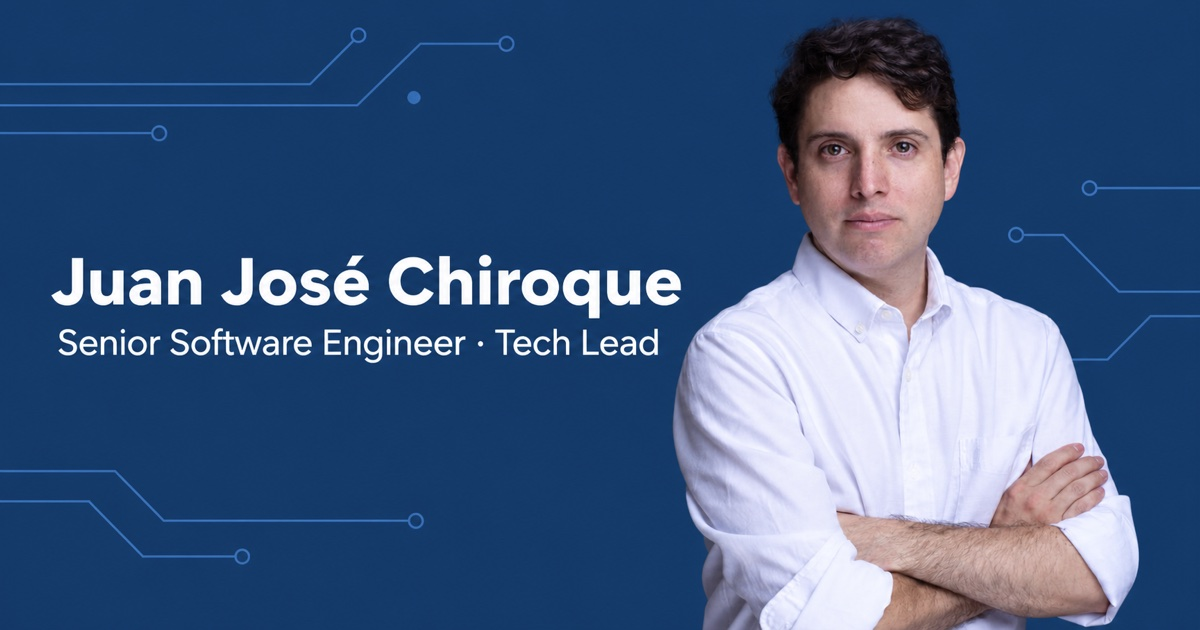
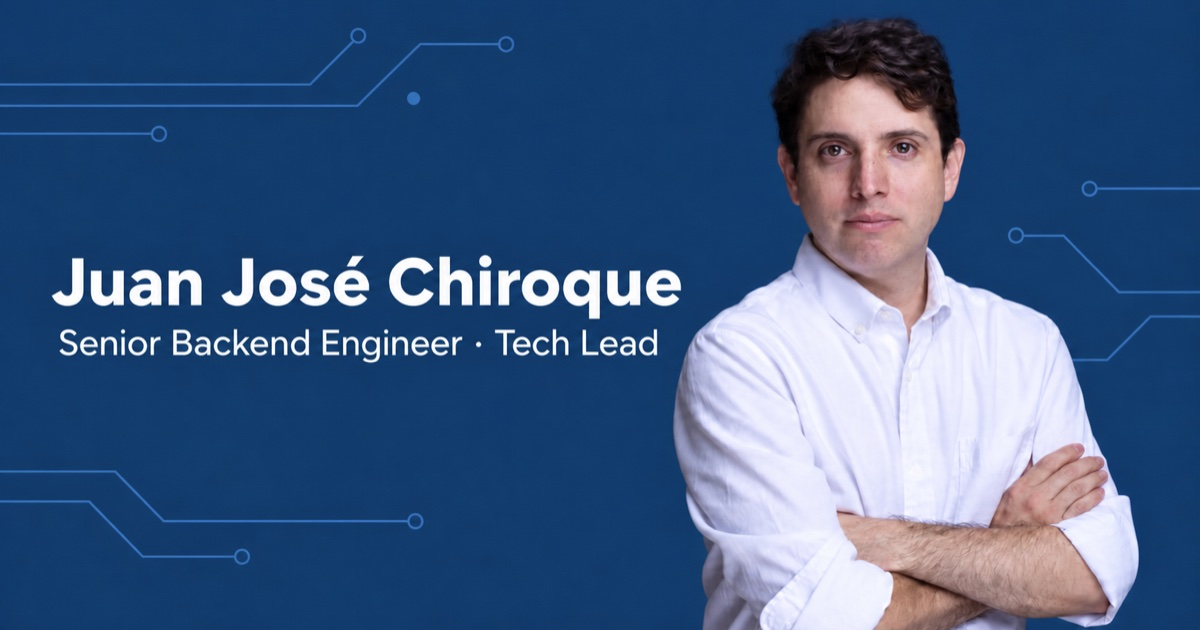
feat: update design, texts and sections

diff --git a/index.html b/index.html
@@ -3,30 +3,27 @@
   <head>
     <meta charset="utf-8">
     <meta name="viewport" content="width=device-width, initial-scale=1">
-    <meta name="description" content="Senior Software Engineer and Tech Lead with 15+ years of experience building SaaS platforms, APIs, cloud systems, integrations and production-ready digital products.">
-    <title>Juan José Chiroque | Senior Software Engineer &amp; Tech Lead</title>
+    <meta name="description" content="Senior Backend Engineer and Tech Lead with 15+ years of experience, open to full-time remote roles across LATAM and US time zones.">
     <link rel="canonical" href="https://juanjosechiroque.com/">
-    <link rel="alternate" hreflang="en" href="https://juanjosechiroque.com/">
-    <link rel="alternate" hreflang="es" href="https://juanjosechiroque.com/es/">
-    <link rel="alternate" hreflang="x-default" href="https://juanjosechiroque.com/">
+    <title>Juan José Chiroque | Senior Backend Engineer &amp; Tech Lead</title>
     <meta property="og:type" content="website">
-    <meta property="og:title" content="Juan José Chiroque | Senior Software Engineer &amp; Tech Lead">
-    <meta property="og:description" content="15+ years building SaaS platforms, APIs, cloud systems and production-ready digital products.">
+    <meta property="og:title" content="Juan José Chiroque | Senior Backend Engineer &amp; Tech Lead">
+    <meta property="og:description" content="Senior Backend Engineer and Tech Lead open to full-time remote roles.">
     <meta property="og:url" content="https://juanjosechiroque.com/">
     <meta property="og:image" content="https://juanjosechiroque.com/assets/images/social-preview.jpg">
     <meta name="twitter:card" content="summary_large_image">
-    <meta name="twitter:title" content="Juan José Chiroque | Senior Software Engineer &amp; Tech Lead">
-    <meta name="twitter:description" content="Senior Software Engineer and Tech Lead building production-ready software.">
+    <meta name="twitter:title" content="Juan José Chiroque | Senior Backend Engineer &amp; Tech Lead">
+    <meta name="twitter:description" content="Senior Backend Engineer and Tech Lead open to full-time remote roles.">
     <meta name="twitter:image" content="https://juanjosechiroque.com/assets/images/social-preview.jpg">
     <link rel="icon" href="/assets/images/favicon.svg" type="image/svg+xml">
     <link rel="stylesheet" href="/assets/css/styles.css">
     <script type="application/ld+json">
-      {"@context":"https://schema.org","@type":"Person","name":"Juan José Chiroque","url":"https://juanjosechiroque.com","jobTitle":"Senior Software Engineer and Tech Lead","image":"https://juanjosechiroque.com/assets/images/juan-jose-chiroque.jpg","sameAs":["https://www.linkedin.com/in/juanjosechiroque/","https://github.com/juanjosechiroque","https://www.workana.com/freelancer/c78f0543276b93e77cf99bf1f4667e28"]}
+      {"@context":"https://schema.org","@type":"Person","name":"Juan José Chiroque","url":"https://juanjosechiroque.com","jobTitle":"Senior Backend Engineer and Tech Lead","image":"https://juanjosechiroque.com/assets/images/juan-jose-chiroque.jpg","sameAs":["https://www.linkedin.com/in/juanjosechiroque/","https://github.com/juanjosechiroque"]}
     </script>
     <script src="/assets/js/config.js" defer></script>
     <script src="/assets/js/site.js" defer></script>
   </head>
-  <body>
+  <body class="recruiter-v2">
     <a class="skip-link" href="#main-content">Skip to content</a>
     <header class="site-header">
       <div class="container nav-wrap">
@@ -35,8 +32,7 @@
           <span class="sr-only">Open navigation</span><span></span><span></span>
         </button>
         <nav id="site-nav" class="site-nav" aria-label="Primary navigation">
-          <a href="#expertise">Expertise</a><a href="#experience">Experience</a><a href="#testimonials">Testimonials</a><a href="#about">About</a><a href="#contact">Contact</a>
-          <span class="language" aria-label="Language"><span aria-current="page">EN</span><span aria-hidden="true">|</span><a href="/es/" lang="es">ES</a></span>
+          <a href="#experience">Experience</a><a href="#expertise">Expertise</a><a href="#about">About</a><a href="#contact">Contact</a>
         </nav>
       </div>
     </header>
@@ -45,51 +41,41 @@
       <section class="hero section">
         <div class="container hero-grid">
           <div class="hero-copy">
-            <p class="eyebrow"><span class="status-dot" aria-hidden="true"></span> Open to remote roles and focused consulting projects</p>
-            <h1>Senior Software Engineer <span>·</span> Tech Lead</h1>
-            <p class="hero-statement">I turn product ideas and complex technical problems into production-ready software.</p>
-            <p class="lead">Building SaaS platforms, APIs, cloud systems and end-to-end digital products.</p>
-            <div class="actions"><a class="button button-primary" href="https://calendly.com/juanjosechiroque/intro-call" data-link="calendly" target="_blank" rel="noopener noreferrer">Book a call <span aria-hidden="true">↗</span><span class="sr-only"> (opens in a new tab)</span></a><a class="button button-secondary" href="#experience">View experience</a></div>
-            <div class="text-links" aria-label="Professional links"><a href="https://www.linkedin.com/in/juanjosechiroque/" target="_blank" rel="noopener noreferrer">LinkedIn <span class="sr-only">(opens in a new tab)</span></a><a href="https://github.com/juanjosechiroque" data-link="github" target="_blank" rel="noopener noreferrer">GitHub <span class="sr-only">(opens in a new tab)</span></a></div>
+            <h1>Senior Backend Engineer <span>·</span> Tech Lead</h1>
+            <p class="hero-statement">Building backend platforms, APIs, cloud systems and end-to-end digital products.</p>
+            <p class="role-target">Open to full-time remote roles with product-focused startups and technology companies.</p>
+            <div class="actions"><a class="button button-primary" href="#experience">View experience</a><a class="button button-secondary" href="https://www.linkedin.com/in/juanjosechiroque/" target="_blank" rel="noopener noreferrer">View LinkedIn profile <span aria-hidden="true">↗</span><span class="sr-only"> (opens in a new tab)</span></a></div>
+            <div class="text-links" aria-label="Professional links"><a href="https://github.com/juanjosechiroque" data-link="github" target="_blank" rel="noopener noreferrer">GitHub <span class="sr-only">(opens in a new tab)</span></a></div>
+            <p class="proof-link">Based in Lima, Peru (UTC−5) · English &amp; Spanish · Professional experience working in English</p>
           </div>
-          <div class="portrait-wrap"><img src="/assets/images/juan-jose-chiroque.jpg" width="800" height="800" alt="Juan José Chiroque, Senior Software Engineer and Tech Lead" fetchpriority="high"></div>
+          <div class="portrait-wrap"><img src="/assets/images/juan-jose-chiroque.jpg" width="800" height="800" alt="Juan José Chiroque, Senior Backend Engineer and Tech Lead" fetchpriority="high"></div>
         </div>
       </section>
 
-      <section class="proof" aria-label="Career credibility"><div class="container proof-grid"><div><strong>15+</strong><span>Years in software engineering</span></div><div><strong>Co-founder &amp; CTO experience</strong><span>SaaS product ownership</span></div><div><strong>LATAM · US</strong><span>International teams</span></div><div><strong>SaaS · Payments · AI</strong><span>Production systems</span></div></div></section>
+      <section class="proof" aria-label="Career credibility"><div class="container proof-grid"><div><strong>15+</strong><span>Years in software engineering</span></div><div><strong>3 SaaS products</strong><span>Taken to paying customers</span></div><div><strong>LATAM · US</strong><span>Distributed teams</span></div><div><strong>Payments · E-commerce · AI/LLM</strong><span>Production systems</span></div></div></section>
 
-      <section id="expertise" class="section"><div class="container"><div class="section-heading"><p class="kicker">How I can help</p><h2>Technical direction that moves a product forward.</h2><p>From early product decisions to production systems, I focus on choosing the right level of technology for the problem, building maintainable software and helping teams move with clarity.</p></div><div class="capabilities">
-        <article><h3>Software Architecture &amp; Engineering</h3><p>Designing maintainable systems, evolving existing platforms and making pragmatic technical decisions for production environments.</p></article>
-        <article><h3>SaaS &amp; Product Development</h3><p>Taking products from idea to production across backend, web and mobile experiences, infrastructure and integrations.</p></article>
-        <article><h3>APIs, Integrations &amp; Payments</h3><p>Building reliable APIs and connecting payment providers, logistics platforms, ERPs and third-party systems.</p></article>
-        <article><h3>AI-enabled Products &amp; Automation</h3><p>Applying AI to real business workflows, conversational products and operational automation where it adds practical value.</p></article>
-        <article><h3>Technical Leadership &amp; Consulting</h3><p>Helping teams reduce delivery risk, clarify technical choices, improve architecture and unblock critical delivery.</p></article>
-      </div></div></section>
-
-      <section id="selected-work" class="section selected-work"><div class="container"><div class="section-heading"><p class="kicker">Selected client work</p><h2>From business workflows to dependable software.</h2><p>Projects across workflow digitization, platform modernization and payments.</p></div><div class="selected-work-grid"><article class="work-card"><p class="work-client"><a href="https://eurotres.com.uy/" target="_blank" rel="noopener noreferrer">Eurotres <span aria-hidden="true">↗</span><span class="sr-only"> (opens in a new tab)</span></a></p><h3>Centralized quotation platform</h3><p>Replaced individual Excel quotation sheets with a centralized full-stack application, consolidating information and improving visibility into created quotes for commercial teams.</p><p class="work-stack">Next.js · MongoDB</p></article><article class="work-card"><p class="work-client"><a href="https://carecolombiaong.org/" target="_blank" rel="noopener noreferrer">CARE Colombia <span aria-hidden="true">↗</span><span class="sr-only"> (opens in a new tab)</span></a></p><h3>Aliadas backend recovery &amp; rebuild</h3><p>Recovered the administrative backend for Aliadas, a mobile app supporting domestic workers in Colombia, reconstructing data from the app’s static content and building a new Supabase backend with PostgreSQL and image storage.</p><p class="work-stack">Angular · MySQL · Supabase · PostgreSQL · Vercel</p></article><article class="work-card"><p class="work-client"><a href="https://dreamvacationrentalhomes.com/" target="_blank" rel="noopener noreferrer">Dream Vacation Rental Homes <span aria-hidden="true">↗</span><span class="sr-only"> (opens in a new tab)</span></a></p><h3>Payment methods extension</h3><p>Added Stripe and Conekta as new payment methods to an existing rental platform through a standalone Node.js service.</p><p class="work-stack">Node.js · Stripe · Conekta</p></article><article class="work-card"><p class="work-client"><a href="https://www.nutrimind.net/" target="_blank" rel="noopener noreferrer">Nutrimind <span aria-hidden="true">↗</span><span class="sr-only"> (opens in a new tab)</span></a></p><h3>Incremental monolith decomposition</h3><p>Moved selected business functions out of a growing jQuery monolith into independently deployed Cloudflare Worker services, so the product could evolve without concentrating more logic in one codebase.</p><p class="work-stack">jQuery · Cloudflare Workers</p></article></div></div></section>
-
-      <section id="testimonials" class="section"><div class="container"><div class="section-heading"><p class="kicker">Selected client feedback</p><h2>Trusted to take ownership of important technical work.</h2></div><div class="testimonials">
-        <article class="testimonial"><p class="testimonial-context">Payments &amp; APIs <span>Stripe &amp; Conekta integration</span></p><blockquote>“Once again, I have no words to describe Juan José other than professional, effective, attentive to every request, and a tremendous source of support. This is the second time I’ve hired him, and I would not hesitate to do so again. Highly recommended.”</blockquote><p class="attribution">Jillian B. <span>· Dream Vacation Rental Homes</span></p></article>
-        <article class="testimonial"><p class="testimonial-context">Aliadas backend recovery <span>Administrative backend rebuild with Supabase</span></p><blockquote>“Excellent management and work. He completed the task better than expected, always seeking the best solution rather than the easiest one. 100% recommended.”</blockquote><p class="attribution">Cristiam <span>· CARE Colombia</span></p></article>
-        <article class="testimonial"><p class="testimonial-context">Business reporting <span>Client reports delivered on time</span></p><blockquote>“Juan José’s willingness and capability were vital to the project’s success. My clients received the report they needed on time.”</blockquote><p class="attribution">Rónald E.</p></article>
-        <article class="testimonial"><p class="testimonial-context">Technical judgment <span>SQL Server issue diagnosis</span></p><blockquote>“His experience lets him see different ways to solve a problem.”</blockquote><p class="attribution">Christian G.</p></article>
-      </div><p class="reviews-note">Public client feedback.</p><a class="quiet-link" href="https://www.workana.com/freelancer/c78f0543276b93e77cf99bf1f4667e28" data-link="workana" target="_blank" rel="noopener noreferrer">View more feedback <span aria-hidden="true">↗</span><span class="sr-only"> (opens in a new tab)</span></a></div></section>
-
-      <section id="experience" class="section"><div class="container two-column"><div class="section-heading"><p class="kicker">Experience</p><h2>Comfortable in the details and accountable for the whole outcome.</h2></div><div><p class="supporting-copy experience-intro">Across startups and enterprises in LATAM and the US.</p><ol class="timeline">
-        <li data-role="Independent consultant" data-company="Independent practice" data-start="2020" data-end="Present"><h3 class="timeline-label">Independent consulting</h3><p class="timeline-date">2020–Present</p><p>Consulting projects across architecture, product delivery, integrations and production systems.</p></li>
-        <li data-role="Co-Founder &amp; CTO" data-company="Butik" data-start="2023" data-end="2026"><h3 class="timeline-label">Co-Founder &amp; CTO · Butik</h3><p class="timeline-date">2023–2026</p><p>Set technical direction and owned architecture end-to-end, taking three SaaS products from concept to production with paying customers.</p></li>
+      <section id="experience" class="section"><div class="container two-column"><div class="section-heading"><h2>Experience</h2></div><div><ol class="timeline">
+        <li data-role="Co-Founder &amp; CTO" data-company="Butik" data-start="2023" data-end="2026"><h3 class="timeline-label">Co-Founder &amp; CTO · Butik</h3><p class="timeline-date">2023–2026</p><p>Defined technical direction and owned end-to-end architecture across the company’s SaaS products, partnering with the CEO to take ideas from concept to production and reach paying customers.</p></li>
         <li data-role="Senior Backend Developer" data-company="Globant" data-start="2021" data-end="2023"><h3 class="timeline-label">Senior Backend Developer · Globant</h3><p class="timeline-date">2021–2023</p><p>Built backend systems for large-scale US enterprise environments, working across commerce and data initiatives with distributed LATAM–US teams.</p></li>
         <li data-role="Lead Backend Developer" data-company="Skynet Worldwide Express" data-start="2014" data-end="2021"><h3 class="timeline-label">Lead Backend Developer · Skynet Worldwide Express</h3><p class="timeline-date">2014–2021</p><p>Led platform modernization, architecture and integrations for international logistics and payment workflows, owning technical delivery from design through production.</p></li>
         <li data-role="Full-Stack Developer" data-company="Alignet" data-start="2006" data-end="2013"><h3 class="timeline-label">Full-Stack Developer · Alignet</h3><p class="timeline-date">2006–2013</p><p>Built payment monitoring and analytics systems for transaction platforms processing thousands of daily transactions.</p></li>
       </ol><a class="quiet-link conditional-link" href="https://www.linkedin.com/in/juanjosechiroque/" target="_blank" rel="noopener noreferrer">View full experience on LinkedIn <span aria-hidden="true">↗</span><span class="sr-only"> (opens in a new tab)</span></a><div class="education-summary"><p class="kicker">Education</p><p><strong>Master of Science in Software Engineering</strong><br>Universidad de los Andes · 2023</p></div></div></div></section>
 
-      <section class="section surface expertise-detail"><div class="container two-column"><div class="section-heading"><p class="kicker">Technical expertise</p><h2>Broad enough to connect the system; deep enough to make it dependable.</h2></div><div class="technology-groups"><div><h3>Backend &amp; systems</h3><p>Node.js · TypeScript · NestJS · Express · REST APIs</p></div><div><h3>Product interfaces</h3><p>React · Next.js · React Native · Expo</p></div><div><h3>Cloud &amp; infrastructure</h3><p>AWS · Vercel · Cloudflare · Docker</p></div><div><h3>Data</h3><p>PostgreSQL · MySQL · MongoDB · SQL</p></div><div><h3>Integrations</h3><p>Stripe · PayPal · Mercado Pago · WhatsApp Business API · Third-party APIs</p></div><div><h3>AI &amp; Automation</h3><p>OpenAI API · RAG · pgvector · Conversational workflows</p></div></div></div></section>
+      <section id="expertise" class="section surface expertise-detail"><div class="container expertise-layout"><div class="section-heading"><h2>Technical expertise</h2></div><div class="technology-groups"><div class="tech-group"><h3>Backend &amp; APIs</h3><p class="tech-tags"><span>Node.js</span><span>TypeScript</span><span>NestJS</span><span>Express</span><span>REST APIs</span></p></div><div class="tech-group"><h3>Cloud &amp; DevOps</h3><p class="tech-tags"><span>AWS: EC2 · ECS · Lambda · API Gateway · S3</span><br><span>Docker</span><span>Vercel</span><span>Cloudflare</span></p></div><div class="tech-group"><h3>Data</h3><p class="tech-tags"><span>PostgreSQL</span><span>MySQL</span><span>MongoDB</span><span>SQL Server</span></p></div><div class="tech-group"><h3>AI &amp; Automation</h3><p class="tech-tags"><span>OpenAI API</span><span>RAG</span><span>pgvector</span><span>Conversational workflows</span></p></div><div class="tech-group"><h3>Integrations</h3><p class="tech-tags"><span>Stripe</span><span>PayPal</span><span>Mercado Pago</span><span>WhatsApp Business API</span><span>Third-party APIs</span></p></div><div class="tech-group"><h3>Product Interfaces</h3><p class="tech-tags"><span>React</span><span>Next.js</span><span>Angular</span><span>React Native</span><span>Expo</span></p></div></div></div></section>
 
-      <section id="about" class="section surface"><div class="container about-grid"><div class="section-heading"><p class="kicker">About</p><h2>Engineering with a product and ownership mindset.</h2></div><div class="prose"><p>For more than 15 years, I’ve built software across startups and enterprise environments. My foundation is in backend engineering and architecture, with the range to take an end-to-end product from a meaningful business problem to a dependable release.</p><p>Having worked as a co-founder and CTO, I look beyond implementation to customer needs, operational constraints and sustainable product decisions. I bring a calm, pragmatic approach that helps distributed teams create software they can operate, evolve and trust.</p></div></div></section>
+      <section id="selected-work" class="section selected-work"><div class="container"><div class="section-heading"><h2>Selected work</h2></div><div class="selected-work-grid"><article class="work-card"><p class="work-client"><a href="https://butik.ai/" target="_blank" rel="noopener noreferrer">Butik <span aria-hidden="true">↗</span><span class="sr-only"> (opens in a new tab)</span></a></p><h3>Co-Founder &amp; CTO</h3><p>Led technical direction and owned architecture for SaaS products spanning e-commerce, AI-assisted content generation, CRM, business automation and conversational workflows with WhatsApp Business API.</p><p class="work-stack">SaaS · E-commerce · AI · CRM · Automation · WhatsApp Business API</p></article><article class="work-card"><p class="work-client"><a href="https://carecolombiaong.org/" target="_blank" rel="noopener noreferrer">CARE Colombia <span aria-hidden="true">↗</span><span class="sr-only"> (opens in a new tab)</span></a></p><h3>Aliadas backend recovery &amp; rebuild</h3><p>Recovered the administrative backend for Aliadas, a mobile app supporting domestic workers in Colombia, reconstructing data from the app’s static content and building a new Supabase backend with PostgreSQL and image storage.</p><p class="work-stack">Angular · MySQL · Supabase · PostgreSQL · Vercel</p></article><article class="work-card"><p class="work-client"><a href="https://eurotres.com.uy/" target="_blank" rel="noopener noreferrer">Eurotres <span aria-hidden="true">↗</span><span class="sr-only"> (opens in a new tab)</span></a></p><h3>Centralized quotation platform</h3><p>Replaced individual Excel quotation sheets with a centralized full-stack application, consolidating information and improving visibility into created quotes for commercial teams.</p><p class="work-stack">Next.js · MongoDB</p></article></div></div></section>
 
-      <section id="contact" class="section contact"><div class="container contact-inner"><p class="kicker">Start a conversation</p><h2>Have a product idea or a complex engineering challenge?</h2><div class="actions"><a class="button button-primary" href="https://calendly.com/juanjosechiroque/intro-call" data-link="calendly" target="_blank" rel="noopener noreferrer">Book a 20-minute intro call <span aria-hidden="true">↗</span><span class="sr-only"> (opens in a new tab)</span></a><a class="button button-secondary" href="mailto:hello@juanjosechiroque.com" data-link="email">Email me</a></div></div></section>
+      <section id="testimonials" class="section"><div class="container"><div class="section-heading"><h2>Client feedback</h2></div><div class="testimonials">
+        <article class="testimonial"><p class="testimonial-context">Payments &amp; APIs</p><blockquote>“Once again, I have no words to describe Juan José other than professional, effective, attentive to every request, and a tremendous source of support. This is the second time I’ve hired him, and I would not hesitate to do so again. Highly recommended.”</blockquote><p class="attribution">Jillian B. <span>· Dream Vacation Rental Homes</span></p></article>
+        <article class="testimonial"><p class="testimonial-context">Backend recovery</p><blockquote>“Excellent management and work. He completed the task better than expected, always seeking the best solution rather than the easiest one. 100% recommended.”</blockquote><p class="attribution">Cristiam <span>· CARE Colombia</span></p></article>
+        <article class="testimonial"><p class="testimonial-context">Technical judgment</p><blockquote>“His experience lets him see different ways to solve a problem.”</blockquote><p class="attribution">Christian G.</p></article>
+      </div><p class="reviews-note">Public client feedback.</p></div></section>
+
+      <section id="about" class="section surface"><div class="container about-grid"><div class="section-heading"><h2>About</h2></div><div class="prose"><p>I’m a backend engineer and technical lead with 15+ years across startups and enterprise environments. I’ve worked from early product definition through production operations.</p><p>As a co-founder and CTO, I’ve had to balance architecture with customer needs, delivery constraints and the day-to-day reality of operating a product. I bring that perspective to teams that need hands-on technical leadership and clear decisions.</p></div></div></section>
+
+      <section id="contact" class="section contact"><div class="container contact-inner"><p class="kicker">Open to full-time remote roles</p><h2>Hiring for a Senior/Staff Backend Engineer or Tech Lead role?</h2><div class="actions"><a class="button button-primary" href="https://calendly.com/juanjosechiroque/intro-call" data-link="calendly" target="_blank" rel="noopener noreferrer">Schedule a conversation <span aria-hidden="true">↗</span><span class="sr-only"> (opens in a new tab)</span></a><a class="button button-secondary" href="mailto:hello@juanjosechiroque.com" data-link="email">Email me</a></div></div></section>
     </main>
 
-    <footer class="site-footer"><div class="container footer-inner"><div><a class="wordmark" href="/">Juan José Chiroque</a><p>Senior Software Engineer · Tech Lead</p></div><div class="footer-links"><a href="https://www.linkedin.com/in/juanjosechiroque/" target="_blank" rel="noopener noreferrer">LinkedIn <span class="sr-only">(opens in a new tab)</span></a><a href="https://github.com/juanjosechiroque" data-link="github" target="_blank" rel="noopener noreferrer">GitHub <span class="sr-only">(opens in a new tab)</span></a><a href="mailto:hello@juanjosechiroque.com" data-link="email">Email</a></div><div class="footer-language"><span aria-current="page">EN</span><span aria-hidden="true">|</span><a href="/es/" lang="es">ES</a></div><p class="copyright">© <span data-year>2026</span> Juan José Chiroque</p></div></footer>
+    <footer class="site-footer"><div class="container footer-inner"><div><a class="wordmark" href="/">Juan José Chiroque</a><p>Senior Backend Engineer · Tech Lead</p></div><div class="footer-links"><a href="https://www.linkedin.com/in/juanjosechiroque/" target="_blank" rel="noopener noreferrer">LinkedIn <span class="sr-only">(opens in a new tab)</span></a><a href="https://github.com/juanjosechiroque" data-link="github" target="_blank" rel="noopener noreferrer">GitHub <span class="sr-only">(opens in a new tab)</span></a><a href="mailto:hello@juanjosechiroque.com" data-link="email">Email</a></div><p class="copyright">© <span data-year>2026</span> Juan José Chiroque</p></div></footer>
   </body>
 </html>

diff --git a/assets/css/styles.css b/assets/css/styles.css
@@ -1,4 +1,5 @@
 :root { --ink:#172033; --muted:#5e6878; --line:#dce1e8; --surface:#f5f6f8; --accent:#183a67; --accent-dark:#0e2849; --paper:#fff; --max:1180px; --radius:3px; }
+.recruiter-v2 { --ink:#20242c; --muted:#646b76; --line:#dedbd4; --surface:#f3f0ea; --paper:#fbfaf8; }
 * { box-sizing:border-box; }
 [hidden] { display:none !important; }
 html { scroll-behavior:smooth; }
@@ -19,12 +20,11 @@ h3 { margin-bottom:11px; font-size:1.08rem; font-weight:650; }
 .skip-link { position:fixed; z-index:20; top:12px; left:12px; padding:10px 14px; color:#fff; background:var(--accent); transform:translateY(-200%); }
 .skip-link:focus { transform:translateY(0); }
 .site-header { border-bottom:1px solid transparent; background:rgba(255,255,255,.94); }
+.recruiter-v2 .site-header { background:rgba(251,250,248,.94); }
 .nav-wrap { display:flex; align-items:center; min-height:82px; justify-content:space-between; }
 .wordmark { color:var(--ink); font-size:1.5rem; font-weight:740; letter-spacing:-.025em; text-decoration:none; white-space:nowrap; }
 .site-nav { display:flex; align-items:center; gap:25px; font-size:.85rem; font-weight:550; }
 .site-nav > a { text-decoration:none; }
-.language { display:flex; align-items:center; gap:7px; margin-left:8px; color:var(--muted); font-size:.82rem; letter-spacing:.04em; }
-.language [aria-current] { color:var(--ink); font-weight:700; }
 .menu-button { display:none; }
 .hero { padding:32px 0 92px; overflow:hidden; }
 .hero-grid { display:grid; grid-template-columns:minmax(0,1.3fr) minmax(280px,.7fr); align-items:start; gap:clamp(50px,8vw,132px); }
@@ -34,6 +34,7 @@ h3 { margin-bottom:11px; font-size:1.08rem; font-weight:650; }
 .status-dot { width:8px; height:8px; flex:none; margin-top:5px; border-radius:50%; background:#39805d; }
 .intro-name { margin-bottom:13px; color:var(--muted); font-size:1.08rem; font-weight:600; letter-spacing:-.015em; }
 .hero-statement { max-width:680px; margin-bottom:22px; font-size:clamp(1.32rem,2vw,1.75rem); line-height:1.35; letter-spacing:-.025em; }
+.recruiter-v2 .role-target { max-width:620px; margin:0 0 27px; color:var(--muted); font-size:1rem; line-height:1.45; }
 .lead { max-width:620px; margin-bottom:34px; color:var(--muted); font-size:1.06rem; }
 .actions { display:flex; flex-wrap:wrap; gap:12px; align-items:center; }
 .button { display:inline-flex; min-height:48px; align-items:center; justify-content:center; gap:9px; padding:11px 19px; border:1px solid var(--accent); border-radius:var(--radius); font-size:.9rem; font-weight:650; text-decoration:none; transition:background .18s ease,color .18s ease,border-color .18s ease; }
@@ -44,6 +45,7 @@ h3 { margin-bottom:11px; font-size:1.08rem; font-weight:650; }
 .text-links { display:flex; flex-wrap:wrap; gap:19px; margin-top:28px; color:var(--muted); font-size:.88rem; }
 .portrait-wrap { position:relative; width:min(100%,330px); aspect-ratio:4/5; justify-self:end; }
 .portrait-wrap::before { position:absolute; z-index:-1; right:-60px; bottom:-44px; width:73%; height:65%; border:1px solid #c5d0df; content:""; }
+.recruiter-v2 .portrait-wrap::before { display:none; }
 .portrait-wrap img { width:100%; height:100%; object-fit:cover; filter:saturate(.88); }
 .proof { padding:38px 0 24px; border-top:1px solid var(--line); border-bottom:1px solid var(--line); }
 .proof-grid { display:grid; grid-template-columns:repeat(4,1fr); }
@@ -58,10 +60,6 @@ h3 { margin-bottom:11px; font-size:1.08rem; font-weight:650; }
 .section-heading { max-width:760px; margin-bottom:58px; }
 .section-heading .kicker { margin-bottom:15px; }
 .section-heading > p:last-child { max-width:640px; margin-bottom:0; color:var(--muted); font-size:1.05rem; }
-.capabilities { display:grid; grid-template-columns:repeat(2,1fr); border-top:1px solid var(--line); }
-.capabilities article { min-height:170px; padding:29px 38px 31px 0; border-bottom:1px solid var(--line); }
-.capabilities article:nth-child(even) { padding-right:0; padding-left:38px; border-left:1px solid var(--line); }
-.capabilities p { max-width:440px; margin-bottom:0; color:var(--muted); font-size:.94rem; }
 .selected-work-grid { display:grid; grid-template-columns:repeat(2,1fr); border-top:1px solid var(--line); }
 .work-card { display:flex; min-height:252px; flex-direction:column; padding:29px 38px 28px 0; border-bottom:1px solid var(--line); }
 .work-card:nth-child(even) { padding-right:0; padding-left:38px; border-left:1px solid var(--line); }
@@ -70,9 +68,6 @@ h3 { margin-bottom:11px; font-size:1.08rem; font-weight:650; }
 .work-card h3 { max-width:400px; margin-bottom:12px; font-size:1.12rem; }
 .work-card > p:not(.work-client):not(.work-stack) { max-width:440px; margin-bottom:20px; color:var(--muted); font-size:.94rem; }
 .work-stack { margin-top:auto; margin-bottom:0; color:var(--accent); font-size:.82rem; font-weight:650; }
-.work-intro { max-width:900px; }
-.work-intro .kicker { margin-bottom:15px; }
-.work-intro > p { max-width:630px; color:var(--muted); font-size:1.05rem; }
 .quiet-link { display:inline-block; margin-top:17px; text-underline-offset:5px; }
 .two-column { display:grid; grid-template-columns:.85fr 1.15fr; gap:clamp(55px,10vw,160px); }
 .two-column .section-heading { margin-bottom:0; }
@@ -84,7 +79,6 @@ h3 { margin-bottom:11px; font-size:1.08rem; font-weight:650; }
 .timeline-date { margin:-1px 0 7px; color:var(--accent); font-size:.82rem; font-weight:650; letter-spacing:.03em; }
 .timeline li > p:last-child,.supporting-copy { max-width:560px; margin-bottom:0; color:var(--muted); }
 .supporting-copy { margin-top:32px; font-size:.9rem; }
-.experience-intro { margin-top:0; margin-bottom:30px; }
 .education-summary { margin-top:42px; padding-top:28px; border-top:1px solid var(--line); }
 .education-summary .kicker { margin-bottom:8px; }
 .education-summary p:last-child { margin-bottom:0; color:var(--muted); }
@@ -93,10 +87,22 @@ h3 { margin-bottom:11px; font-size:1.08rem; font-weight:650; }
 .technology-groups > div { padding:21px 0 22px; border-bottom:1px solid var(--line); }
 .technology-groups h3 { margin-bottom:5px; font-size:.96rem; }
 .technology-groups p { margin:0; color:var(--muted); font-size:.94rem; }
+.recruiter-v2 .technology-groups { grid-template-columns:repeat(3,minmax(0,1fr)); gap:14px; border-top:0; }
+.recruiter-v2 .expertise-detail .section-heading { margin-bottom:38px; }
+.recruiter-v2 .technology-groups > .tech-group { min-height:148px; padding:18px; border:1px solid var(--line); background:#fff; }
+.recruiter-v2 .technology-groups h3 { margin-bottom:15px; color:var(--ink); font-size:1.08rem; font-weight:720; letter-spacing:-.015em; }
+.recruiter-v2 .technology-groups .tech-tags { font-size:.84rem; line-height:1.65; }
+.recruiter-v2 .tech-tags span { color:var(--muted); }
+.recruiter-v2 .tech-tags span + span::before { color:#a6a19a; content:" · "; }
 .testimonials { display:grid; grid-template-columns:repeat(2,1fr); gap:18px; }
 .testimonial { display:flex; min-height:0; flex-direction:column; padding:24px; border:1px solid var(--line); background:#fff; box-shadow:0 4px 14px rgba(20,37,62,.035); }
 .testimonial-context { min-height:38px; margin-bottom:21px; color:var(--accent); font-size:.82rem; font-weight:720; letter-spacing:.04em; line-height:1.35; text-transform:uppercase; }
 .testimonial-context span { color:var(--muted); font-weight:550; letter-spacing:0; text-transform:none; }
+.recruiter-v2 #testimonials .section-heading { margin-bottom:36px; }
+.recruiter-v2 .testimonial { padding:20px; background:#fffdf9; }
+.recruiter-v2 .testimonial-context { min-height:0; margin-bottom:13px; font-size:.78rem; }
+.recruiter-v2 .testimonial blockquote { margin-bottom:18px; font-size:.94rem; line-height:1.48; }
+.recruiter-v2 .testimonial .attribution { margin-bottom:0; font-size:.83rem; }
 blockquote { margin:0 0 25px; font-size:1rem; line-height:1.55; letter-spacing:-.012em; }
 .attribution { margin-top:auto; margin-bottom:13px; font-size:.86rem; font-weight:670; }
 .attribution span { color:var(--muted); font-weight:400; }
@@ -125,15 +131,15 @@ blockquote { margin:0 0 25px; font-size:1rem; line-height:1.55; letter-spacing:-
 .site-footer p { margin:5px 0 0; font-size:.82rem; }
 .footer-links { display:flex; flex-wrap:wrap; gap:16px; font-size:.82rem; }
 .footer-links a { color:#dbe6f4; }
-.footer-language { display:flex; gap:7px; justify-content:flex-end; font-size:.82rem; }
-.footer-language a,.footer-language span { color:#dbe6f4; }
-.footer-language [aria-current] { color:#fff; font-weight:700; }
 .copyright { white-space:nowrap; }
 .sr-only { position:absolute; width:1px; height:1px; padding:0; overflow:hidden; clip:rect(0,0,0,0); white-space:nowrap; border:0; }
 .not-found { display:grid; min-height:calc(100vh - 174px); place-items:center; padding:72px 0; }
 .not-found-content { max-width:660px; text-align:center; }
 .not-found-content h1 { max-width:none; }
 .not-found-content p { max-width:540px; margin:0 auto 28px; color:var(--muted); font-size:1.06rem; }
-@media (max-width:800px) { .section { padding:62px 0; } .nav-wrap { min-height:70px; } .menu-button { display:grid; width:44px; height:44px; place-content:center; gap:5px; border:0; color:var(--ink); background:transparent; cursor:pointer; } .menu-button span:not(.sr-only) { display:block; width:20px; height:1px; background:currentColor; transition:transform .18s ease; } .menu-open .menu-button span:nth-of-type(2) { transform:translateY(3px) rotate(45deg); } .menu-open .menu-button span:nth-of-type(3) { transform:translateY(-3px) rotate(-45deg); } .site-nav { position:absolute; z-index:10; top:70px; right:0; left:0; display:none; flex-direction:column; align-items:stretch; gap:0; padding:14px 24px 24px; border-bottom:1px solid var(--line); background:#fff; box-shadow:0 12px 22px rgba(20,37,62,.08); } .menu-open .site-nav { display:flex; } .site-nav > a { padding:10px 0; } .language { margin:10px 0 0; padding-top:16px; border-top:1px solid var(--line); } .hero { padding:48px 0 72px; } .hero-grid,.two-column,.about-grid { grid-template-columns:1fr; gap:45px; } .hero-copy { order:1; } .portrait-wrap { width:min(100%,330px); justify-self:start; order:2; } .eyebrow { margin-bottom:28px; } .proof-grid { grid-template-columns:repeat(2,1fr); gap:20px 0; } .proof-grid > div:nth-child(odd) { padding-left:0; border-left:0; } .proof-grid > div { min-height:auto; padding:0 18px; } .section-heading { margin-bottom:42px; } .capabilities,.selected-work-grid { grid-template-columns:1fr; } .capabilities article,.capabilities article:nth-child(even),.work-card,.work-card:nth-child(even) { min-height:0; padding:24px 0; border-left:0; } .testimonials { grid-template-columns:1fr; } .testimonial { min-height:0; } .footer-inner { grid-template-columns:1fr; gap:22px; align-items:start; } .footer-language { justify-content:flex-start; } }
+@media (max-width:800px) { .section { padding:62px 0; } .nav-wrap { min-height:70px; } .menu-button { display:grid; width:44px; height:44px; place-content:center; gap:5px; border:0; color:var(--ink); background:transparent; cursor:pointer; } .menu-button span:not(.sr-only) { display:block; width:20px; height:1px; background:currentColor; transition:transform .18s ease; } .menu-open .menu-button span:nth-of-type(2) { transform:translateY(3px) rotate(45deg); } .menu-open .menu-button span:nth-of-type(3) { transform:translateY(-3px) rotate(-45deg); } .site-nav { position:absolute; z-index:10; top:70px; right:0; left:0; display:none; flex-direction:column; align-items:stretch; gap:0; padding:14px 24px 24px; border-bottom:1px solid var(--line); background:#fff; box-shadow:0 12px 22px rgba(20,37,62,.08); } .menu-open .site-nav { display:flex; } .site-nav > a { padding:10px 0; } .hero { padding:48px 0 72px; } .hero-grid,.two-column,.about-grid { grid-template-columns:1fr; gap:45px; } .hero-copy { order:1; } .portrait-wrap { width:min(100%,330px); justify-self:start; order:2; } .eyebrow { margin-bottom:28px; } .proof-grid { grid-template-columns:repeat(2,1fr); gap:20px 0; } .proof-grid > div:nth-child(odd) { padding-left:0; border-left:0; } .proof-grid > div { min-height:auto; padding:0 18px; } .section-heading { margin-bottom:42px; } .selected-work-grid { grid-template-columns:1fr; } .work-card,.work-card:nth-child(even) { min-height:0; padding:24px 0; border-left:0; } .testimonials { grid-template-columns:1fr; } .testimonial { min-height:0; } .footer-inner { grid-template-columns:1fr; gap:22px; align-items:start; } }
+
+@media (max-width:800px) { .recruiter-v2 .hero { padding-top:24px; padding-bottom:48px; } .recruiter-v2 .hero-grid { gap:30px; } .recruiter-v2 .portrait-wrap { width:min(64vw,240px); } .recruiter-v2 .testimonial-context { min-height:0; margin-bottom:15px; } .recruiter-v2 .site-nav { background:#fbfaf8; } .recruiter-v2 .technology-groups { grid-template-columns:1fr; gap:10px; } .recruiter-v2 .technology-groups > .tech-group { min-height:0; padding:16px; } }
+@media (min-width:801px) { .recruiter-v2 .selected-work-grid,.recruiter-v2 .testimonials { grid-template-columns:repeat(3,1fr); } .recruiter-v2 .work-card,.recruiter-v2 .work-card:nth-child(even) { padding-right:24px; padding-left:24px; border-left:1px solid var(--line); } .recruiter-v2 .work-card:first-child { padding-left:0; border-left:0; } }
 @media (max-width:430px) { .container { width:min(calc(100% - 36px),var(--max)); } h1 { font-size:2.43rem; } .hero-statement { font-size:1.27rem; } .proof { padding:30px 0 20px; } .proof-grid strong { font-size:1.3rem; } .proof-grid span { font-size:.82rem; } .button { width:100%; } .actions { display:grid; grid-template-columns:1fr; } .contact .actions { width:100%; } .aggregate span { padding:0 3px; } }
 @media (prefers-reduced-motion:reduce) { *,*::before,*::after { scroll-behavior:auto !important; transition-duration:.01ms !important; animation-duration:.01ms !important; animation-iteration-count:1 !important; } }

diff --git a/404.html b/404.html
@@ -11,7 +11,7 @@
   <body>
     <header class="site-header"><div class="container nav-wrap"><a class="wordmark" href="/" aria-label="Juan José Chiroque: home">Juan José Chiroque</a></div></header>
     <main class="not-found"><div class="container not-found-content"><p class="kicker">404</p><h1>That page is not here.</h1><p>The link may be outdated, or the page may have moved. You can return to the site and continue from there.</p><a class="button button-primary" href="/">Return home</a></div></main>
-    <footer class="site-footer"><div class="container footer-inner"><div><a class="wordmark" href="/">Juan José Chiroque</a><p>Senior Software Engineer · Tech Lead</p></div><div class="footer-language"><a href="/es/" lang="es">ES</a></div><p class="copyright">© <span data-year>2026</span> Juan José Chiroque</p></div></footer>
+    <footer class="site-footer"><div class="container footer-inner"><div><a class="wordmark" href="/">Juan José Chiroque</a><p>Senior Backend Engineer · Tech Lead</p></div><p class="copyright">© <span data-year>2026</span> Juan José Chiroque</p></div></footer>
     <script src="/assets/js/site.js" defer></script>
   </body>
 </html>

diff --git a/assets/js/config.js b/assets/js/config.js
@@ -3,6 +3,5 @@ window.siteConfig = {
   calendly: 'https://calendly.com/juanjosechiroque/intro-call',
   email: 'mailto:hello@juanjosechiroque.com',
   github: 'https://github.com/juanjosechiroque',
-  workana: 'https://www.workana.com/freelancer/c78f0543276b93e77cf99bf1f4667e28',
   // Update public URLs here if a profile destination changes.
 };

diff --git a/README.md b/README.md
@@ -1,34 +1,20 @@
-# Personal Website
+# Juan José Chiroque — Personal Website
 
-Bilingual professional website for Juan José Chiroque, Senior Software Engineer and Tech Lead. Built with semantic HTML, vanilla CSS and a small JavaScript enhancement layer, with no dependencies or build step.
+A single-page professional website for Juan José Chiroque, a Senior Backend Engineer and Tech Lead seeking full-time remote roles with product-focused startups and technology companies.
+
+The site is intentionally lightweight: semantic HTML, responsive CSS and a small JavaScript enhancement layer. It has no build step or external dependencies.
 
 ## Structure
 
 ```text
-index.html                 English site
-es/index.html              Spanish site
+index.html                 Main English website
+404.html                   Custom not-found page
 assets/css/styles.css      Shared responsive styles
-assets/js/config.js        Public-profile links
+assets/js/config.js        Public profile and contact links
 assets/js/site.js          Mobile navigation and small enhancements
 assets/images/             Profile photo, social preview and favicon
 robots.txt / sitemap.xml   Search-engine discovery
 ```
-
-## Preview locally
-
-From the project root, run:
-
-```bash
-python3 -m http.server 8000
-```
-
-Then open `http://localhost:8000`. The Spanish page is available at `http://localhost:8000/es/`.
-
-## Updating content
-
-- Keep English and Spanish content aligned by updating both `index.html` and `es/index.html`.
-- Update public profile URLs in `assets/js/config.js` and their matching HTML links.
-- Replace images in `assets/images/` only with optimized files that preserve the existing dimensions and references.
 
 ## License
 
